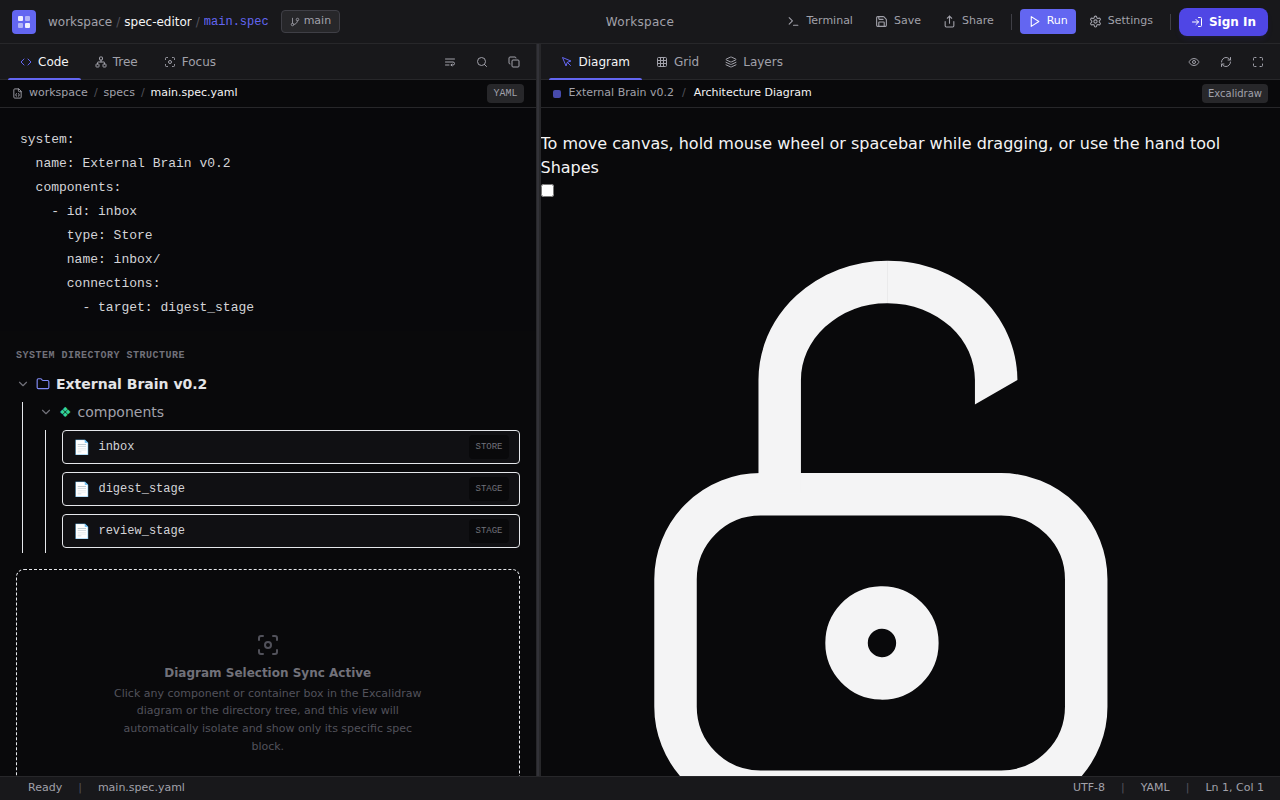
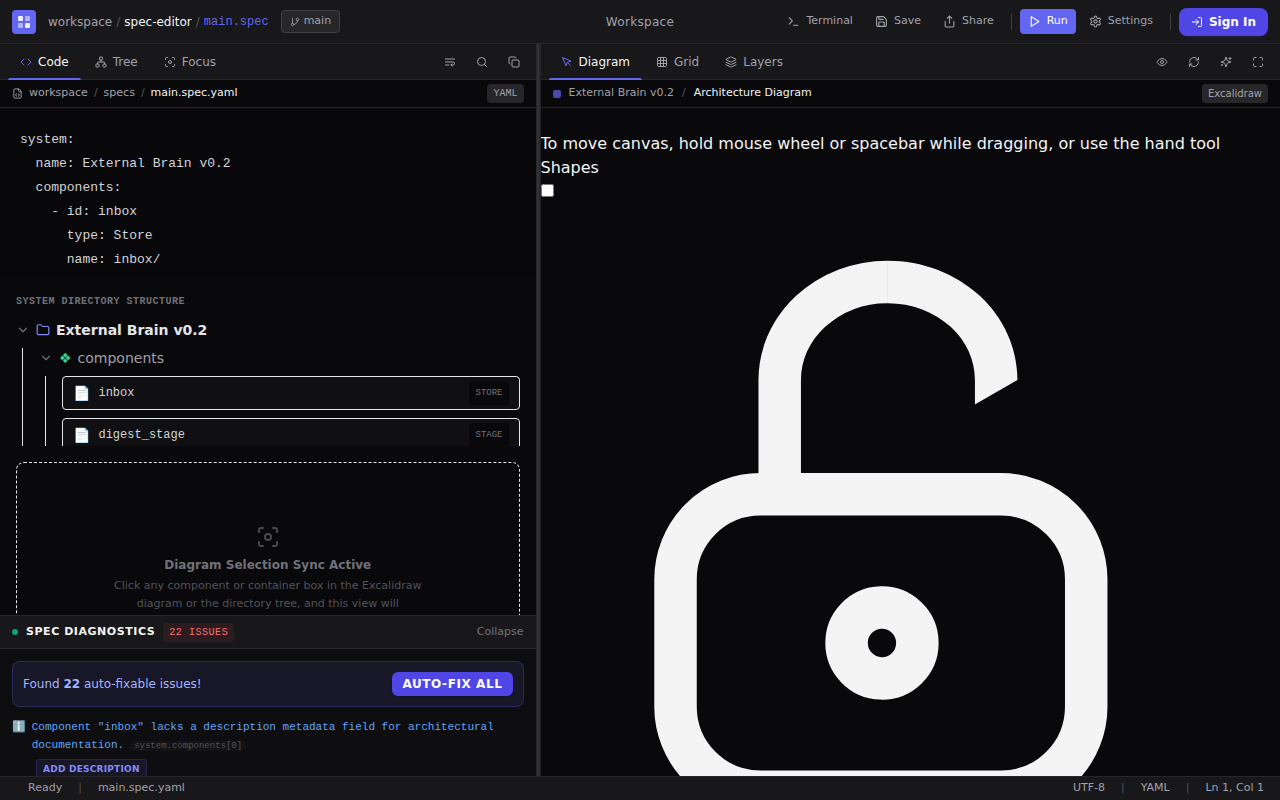
feat: implement quick-fixes for invalid-metadata-color and invalid-connection-label, and prevent prototype pollution in colorMap

diff --git a/tests/complete-quick-fixes.test.ts b/tests/complete-quick-fixes.test.ts
@@ -243,4 +243,37 @@ describe('Comprehensive Diagnostics and Quick-Fixes', () => {
     expect(updated).toContain('id: node_y') // node_y not deleted!
     expect(updated).toBe(initialYaml) // completely unmodified!
   })
+
+  test('reconciles invalid-metadata-color by setting color to zinc', () => {
+    const initial = `system:
+  name: Test System
+  components:
+    - id: node_a
+      type: Stage
+      metadata:
+        color: invalid_color_name
+`
+    const updated = reconcileSpec(initial, {
+      type: 'quick-fix',
+      payload: { path: 'system.components[0].metadata.color', fixType: 'invalid-metadata-color' }
+    })
+    expect(updated).toContain('color: zinc')
+  })
+
+  test('reconciles invalid-connection-label by converting to string or empty string', () => {
+    const initial = `system:
+  name: Test System
+  components:
+    - id: node_a
+      type: Stage
+      connections:
+        - target: node_b
+          label: 12345
+`
+    const updated = reconcileSpec(initial, {
+      type: 'quick-fix',
+      payload: { path: 'system.components[0].connections[0].label', fixType: 'invalid-connection-label' }
+    })
+    expect(updated).toContain('label: "12345"')
+  })
 })

diff --git a/lib/reconciler.ts b/lib/reconciler.ts
@@ -380,6 +380,14 @@ export function reconcileSpec(specText: string, change: CanvasChange): string {
       } else if (fixType === "invalid-metadata-status") {
         doc.setIn(parts, "draft")
         modified = true
+      } else if (fixType === "invalid-metadata-color") {
+        doc.setIn(parts, "zinc")
+        modified = true
+      } else if (fixType === "invalid-connection-label") {
+        const currentVal = doc.getIn(parts)
+        const fixedVal = currentVal !== undefined && currentVal !== null ? String(currentVal) : ""
+        doc.setIn(parts, fixedVal)
+        modified = true
       } else if (fixType === "component-overlap") {
         const currentX = doc.getIn(parts) as number
         if (typeof currentX === "number" && Number.isFinite(currentX)) {

diff --git a/components/workspace/excalidraw-canvas.tsx b/components/workspace/excalidraw-canvas.tsx
@@ -91,7 +91,7 @@ export function compileSpecToExcalidrawElements(parsedSpec: any): any[] {
       // Check for custom metadata color
       const customColor = comp.metadata?.color ? String(comp.metadata.color).trim().toLowerCase() : ""
       if (customColor) {
-        const colorMap: Record<string, { stroke: string; bg: string }> = {
+        const colorMap: Record<string, { stroke: string; bg: string }> = Object.assign(Object.create(null), {
           indigo: { stroke: '#6366f1', bg: 'rgba(99, 102, 241, 0.1)' },
           purple: { stroke: '#c084fc', bg: 'rgba(168, 85, 247, 0.1)' },
           emerald: { stroke: '#34d399', bg: 'rgba(52, 211, 153, 0.1)' },
@@ -99,8 +99,8 @@ export function compileSpecToExcalidrawElements(parsedSpec: any): any[] {
           rose: { stroke: '#f43f5e', bg: 'rgba(244, 63, 94, 0.1)' },
           sky: { stroke: '#38bdf8', bg: 'rgba(56, 189, 248, 0.1)' },
           zinc: { stroke: '#71717a', bg: 'rgba(113, 113, 122, 0.1)' },
-        }
-        if (colorMap[customColor]) {
+        })
+        if (customColor && colorMap[customColor]) {
           strokeColor = colorMap[customColor].stroke
           backgroundColor = colorMap[customColor].bg
         } else if (/^#[0-9a-fA-F]{6}$/.test(customColor)) {

diff --git a/components/workspace/editor-panel.tsx b/components/workspace/editor-panel.tsx
@@ -362,7 +362,9 @@ const FIXABLE_DIAGNOSTIC_CODES = new Set([
   "gateway-to-store",
   "sink-stage-brick",
   "empty-gateway",
-  "circular-dependency"
+  "circular-dependency",
+  "invalid-metadata-color",
+  "invalid-connection-label"
 ])
 
 export function EditorPanel({